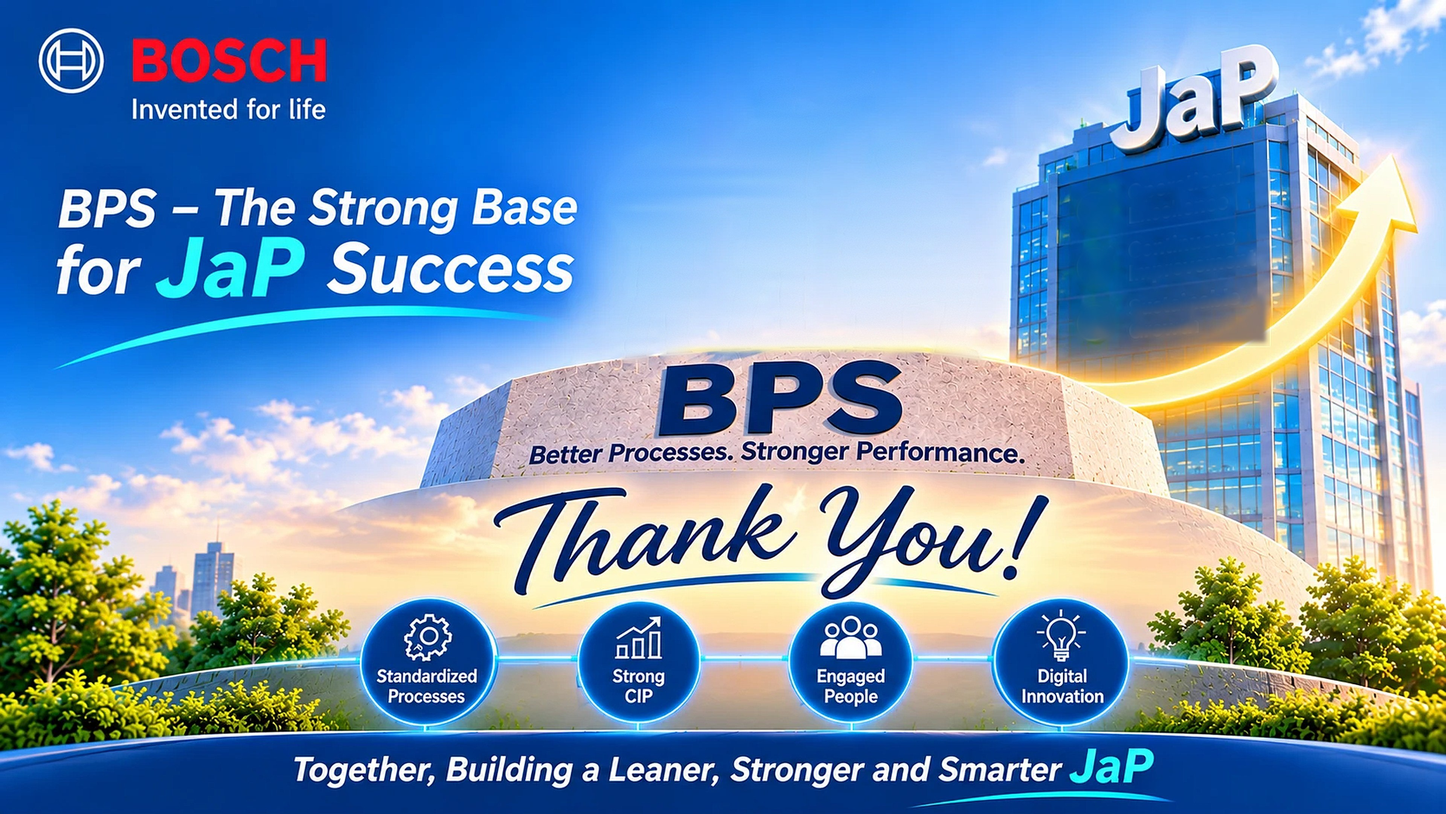
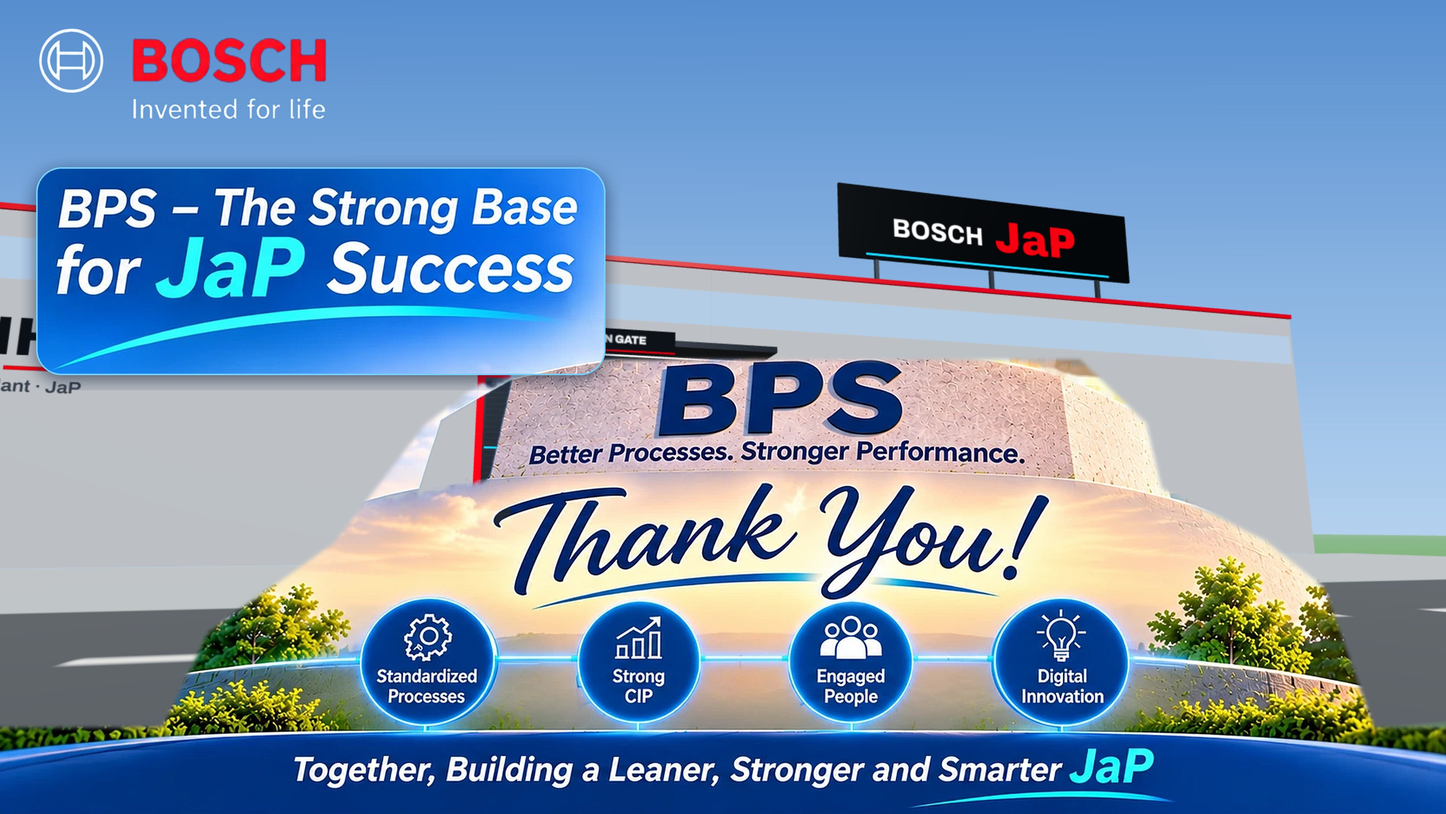
Activity navigation for the ‹ › buttons; flashback flows straight into the HD screen; Next skips the manual count; 2027 ends after Challenges & Support; Lead.Work.Win removed; thank-you background from the 3D plant with a BOSCH JaP rooftop sign
Claude-Session: https://claude.ai/code/session_01SMNtWjoyGC9g32mxm4KRHc

diff --git a/director.js b/director.js
@@ -54,9 +54,16 @@ export const CHAPTERS = [
   { id: 'factcheck', title: 'BPS Fact Check', sub: 'The JaP Newsroom', loc: 'studio', dur: 900, stepped: true },
   { id: 'future', title: 'How 2027 looks like', sub: 'Back through the gate, into the plant of 2027', loc: 'gate', dur: 40, stepped: true },
   { id: 'plant', title: 'Picture of Future', sub: 'A walk through the modern plant', loc: 'floor', dur: 36 },
-  { id: 'closing', title: 'Lead. Work. Win.', sub: 'Creating value. Together.', loc: 'close', dur: 18 },
   { id: 'thanks', title: 'Thank You', sub: '', loc: 'close', dur: 14, stepped: true },
 ];
+// the activities the ‹ › buttons step through: chapter + mark
+export const ACTS = [
+  ['flashback', 'flashback'], ['house', 'house26'], ['roadmap', 'roadmap26'], ['glimpses', 'glimpses'],
+  ['glimpses', 'vsp'], ['glimpses', 'dlpc'], ['glimpses', 'space'], ['glimpses', 'dlr'], ['glimpses', 'dsm'], ['digitalsm', 'dsmex'],
+  ['glimpses2', 'twin'], ['glimpses2', 'vision'], ['glimpses2', 'award'], ['factcheck', 'factcheck'],
+  ['future', 'future'], ['future', 'goal'], ['future', 'kpr'], ['future', 'kpi'], ['future', 'hunt'], ['future', 'strategy'],
+  ['future', 'roadmap27'], ['future', 'challenges'], ['plant', 'pof'], ['thanks', 'thanks'],
+].map(([ch, m]) => ({ ch, m }));
 
 // Operators at work [x, z, yaw]: NHA assembly line (4), VE pump line (3), NHA component line, VE press,
 // calibration cell, NHA machining (front and back), VE end of line test
@@ -206,23 +213,45 @@ export class Director {
     if (this.index > 0 && at > 1) { this.go(this.index, { toStep: at - 1 }); return; }
     if (this.index > 1) this.go(this.index - 1, { toStep: Infinity }); else if (this.index === 1) this.go(0);
   }
+  // ---------- activities (the ‹ › buttons): each script calls mark(id) where an activity starts ----------
+  mark(id) {
+    this.curMark = id; this.markAt = this.stepNo || 0; this.markT = performance.now();
+    if (this.catchUp && this.targetMark === id) this.endCatchUp();
+    this.app.ui.setActivity?.(id);
+  }
+  actIndex() { return ACTS.findIndex(x => x.m === this.curMark); }
+  goAct(k) {
+    if (k < 0) { this.go(0); return; }
+    const A = ACTS[Math.min(k, ACTS.length - 1)], ci = CHAPTERS.findIndex(c => c.id === A.ch); if (ci < 0) return;
+    const first = ACTS.find(x => x.ch === A.ch) === A;
+    if (first) this.go(ci); else this.go(ci, { toMark: A.m });
+  }
+  nextAct() { if (this.catchUp) return; const k = this.actIndex(); this.goAct(k < 0 ? ACTS.findIndex(x => CHAPTERS.findIndex(c => c.id === x.ch) > this.index) : k + 1); }
+  prevAct() {
+    if (this.catchUp) return; const k = this.actIndex();
+    if (k < 0) { this.prev(); return; }
+    // inside the activity → back to its start; already at its start → the activity before
+    const atStart = !this.scriptDone && (this.stepNo || 0) <= this.markAt + 1 && (!!this.stepRes || performance.now() - (this.markT || 0) < 3000);
+    this.goAct(atStart ? k - 1 : k);
+  }
   endCatchUp() {
     if (!this.catchUp) return;
-    this.catchUp = false; this.targetStep = 0; this.app.timeScale = 1; this.app.ui.fade(0, 0.6);
+    this.catchUp = false; this.targetStep = 0; this.targetMark = null; this.app.timeScale = 1; this.app.ui.fade(0, 0.6);
   }
-  async go(i, { skipTitle = false, toStep = 0 } = {}) {
+  async go(i, { skipTitle = false, toStep = 0, toMark = null, noFade = false } = {}) {
     i = clamp(i, 0, CHAPTERS.length - 1);
     const app = this.app, ui = app.ui, ch = CHAPTERS[i];
     const gt = ++this.goToken;
     this.makeCtx(); // cancels running script
-    this.stepRes = null; app.timeScale = 1; ui.stepHint(false);
+    this.stepRes = null; this.onSkip = null; app.timeScale = 1; ui.stepHint(false);
     app.rig.stop(); this.userCam = false; ui.showResetView(false); ui.clearCaptions(); ui.setPins([]); ui.closePanel(true); ui.showSkip(false); ui.closeRoadmap();
-    if (this.index >= 0) { ui.fade(1, 0.45); await new Promise(r => setTimeout(r, 470)); if (gt !== this.goToken) return; }
+    if (this.index >= 0 && !noFade) { ui.fade(1, 0.45); await new Promise(r => setTimeout(r, 470)); if (gt !== this.goToken) return; }
     this.index = i; this.chapterTime = 0; this.scriptDone = false; this.stepNo = 0;
-    this.targetStep = toStep; this.catchUp = toStep > 0; if (this.catchUp) skipTitle = true;
+    this.targetStep = toStep; this.targetMark = toMark; this.catchUp = toStep > 0 || !!toMark; if (this.catchUp) skipTitle = true;
+    this.curMark = null; this.markAt = 0;
     ui.setChapter(i);
     this.stage(ch.id);
-    if (this.catchUp) app.timeScale = 20; else ui.fade(0, 0.8);
+    if (this.catchUp) app.timeScale = 20; else ui.fade(0, noFade ? 0.01 : 0.8);
     // the gate chapter has no title card: '2026 Flashback' is written on the doors
     if (!['opening', 'flashback', 'house', 'roadmap', 'future', 'glimpses', 'glimpses2', 'thanks', 'factcheck'].includes(ch.id) && !skipTitle) ui.titleCard(i, ch.title, ch.sub);
     const ctx = this.makeCtx();
@@ -243,7 +272,7 @@ export class Director {
   waitStep(ctx, autoAfter = null) {
     this.stepNo = (this.stepNo || 0) + 1;
     // replaying after Back: run through the earlier steps without stopping
-    if (this.catchUp && this.stepNo < this.targetStep) return new Promise(r => setTimeout(r, 90));
+    if (this.catchUp && (this.targetMark || this.stepNo < this.targetStep)) return new Promise(r => setTimeout(r, 90));
     this.endCatchUp();
     this.app.timeScale = 1;
     const auto = null; void autoAfter; // nothing moves on by itself: every step waits for Next
@@ -258,6 +287,7 @@ export class Director {
     const ch = CHAPTERS[this.index]; if (!ch || this.scriptDone || this.catchUp) return;
     if (ch.stepped) {
       if (this.stepRes) { this.stepRes(); return; }
+      if (this.onSkip) { this.onSkip(); return; }
       this.app.timeScale = 5; // fast-forward the current animation to the next step
       return;
     }
@@ -361,6 +391,7 @@ export class Director {
   async opening(ctx) { await ctx.wait(0.1); }
 
   async flashback(ctx) {
+    this.mark('flashback');
     const { ph, bps, prod, qual } = this.cast, a = this.app, gate = a.factory.gate, d = a.data;
     const team = this.all(), sign = a.factory.hotspots.gate;
     ph.place(0, 40.5, PI);
@@ -399,12 +430,13 @@ export class Director {
     ph.faceTo(W); ph.lookAt(W); bps.lookAt(W); team.forEach(m => m.lookAt(W));
     ph.gesture('point', 2.6, { target: W });
     ctx.cap('On the screen: 2026 Flashback.');
-    ctx.cam(SHOT.in_both, 3);
-    await ctx.wait(3.2);
+    await ctx.wait(1.2);
+    if (!this.catchUp) { this.go(this.index + 1, { noFade: true }); await new Promise(() => {}); } // straight into the screen, full display
   }
 
   async house(ctx) {
     // the screen opens in full display with '2026 Flashback'; each Next builds the House of BPS GO!+
+    this.mark('house26');
     const ui = this.app.ui, wall = this.app.entrance.wall;
     ctx.cut(SHOT.k_wall);
     wall.setMode('flash'); wall.set26(0, true);
@@ -415,6 +447,7 @@ export class Director {
   }
 
   async roadmap(ctx) {
+    this.mark('roadmap26');
     // straight from the House of BPS GO!+ to the roadmap in full screen (click to zoom) → back to the scene
     const ui = this.app.ui, wall = this.app.entrance.wall;
     ctx.cut(SHOT.k_wall);
@@ -500,6 +533,7 @@ export class Director {
     const a = this.app, ui = a.ui, c = this.cast, T = (a.data.targets2027 || {}).boards || [], boards = a.factory.t27Boards || [];
     for (let i = 0; i < T.length; i++) {
       const b = boards[i]; if (!b) continue;
+      this.mark(T[i].id === 'kpr' ? 'kpr' : T[i].id === 'kpi' ? 'kpi' : 'hunt');
       ui.t27Board('close');
       ctx.cap(`Target 2027 · ${T[i].title}`, { hold: 400 });
       await this.walkToBoard(ctx, b);
@@ -530,6 +564,7 @@ export class Director {
     const have = JSON.parse(document.getElementById('glimpse-images')?.textContent || '{}');
     if (part === 1) {
       // the cover on the big screen
+      this.mark('glimpses');
       ctx.cap('Glimpses 2026: a Gemba walk through the year.', { hold: 600 });
       await this.waitStep(ctx);
     }
@@ -538,6 +573,7 @@ export class Director {
       const M = G.months[m]; if ((M.part || 1) !== part) continue;
       const b = boards[m]; if (!b) continue;
       if (!M.images.some(im => have[im.src])) continue; // no pictures for this story yet
+      if (M.mark) this.mark(M.mark);
       // walk to the board
       ui.glimpses('close'); ui.glimpses('gemba', null);
       ctx.cap(`Gemba walk · ${M.month}`, { hold: 400 });
@@ -578,6 +614,7 @@ export class Director {
   }
 
   async digitalsm(ctx) {
+    this.mark('dsmex');
     const { tl, ph, bps, prod, qual } = this.cast, a = this.app, ui = a.ui, F = a.factory, S = F.sm, D = a.data.digitalSM;
     const team = [ph, bps, prod, qual], zA = -4.35, last = S.racks[S.racks.length - 1], sp = S.screenPos;
     const walkAll = (spots, speed = 1.7) => Promise.all(team.map((m, k) => new Promise(res => ctx.later(k * 0.15, () => m.walkTo([spots[k]], { speed, onArrive: () => res() })))));
@@ -589,18 +626,24 @@ export class Director {
     ctx.cam(SHOT.sm_watch, 1.6);
     ctx.cap('Before · manual stock count', { kind: 'marker' });
     ctx.cap(D.before.text);
-    await ctx.walk(tl, [[S.racks[0].x, zA]], { speed: 1.4, faceYaw: 0 });
+    // Next during the count jumps straight to the end of it (the 45-min scene)
+    let jump = false; this.onSkip = () => { jump = true; this.onSkip = null; };
+    await Promise.race([ctx.walk(tl, [[S.racks[0].x, zA]], { speed: 1.4, faceYaw: 0 }), ctx.until(() => jump)]);
     tl.holdClipboard(true); ui.smNote('open', 'before');
     for (let i = 0; i < S.racks.length; i++) {
       const r = S.racks[i];
-      if (i) await ctx.walk(tl, [[r.x, zA]], { speed: 1.0, faceYaw: 0 });
+      if (jump) { ui.smNote('row', i); continue; }
+      if (i) await Promise.race([ctx.walk(tl, [[r.x, zA]], { speed: 1.0, faceYaw: 0 }), ctx.until(() => jump)]);
+      if (jump) { ui.smNote('row', i); continue; }
       tl.faceYaw(0); tl.lookAt(r.center); tl.gesture('point', 1.1, { target: r.center });
       if (i === 3) ctx.cam(SHOT.sm_wide, 3);
       await ctx.wait(1.1);
       tl.gesture('write', 1.6); tl.lookAt(null);
       ui.smNote('row', i);
-      await ctx.wait(1.2);
+      await Promise.race([ctx.wait(1.2), ctx.until(() => jump)]);
     }
+    this.onSkip = null;
+    if (jump) { tl.place(last.x, zA, 0); tl.gestures.length = 0; } // straight to the end of the round
     // tired after the round
     tl.holdClipboard(false); tl.faceYaw(PI); tl.setMood('tired');
     ctx.cam({ pos: [last.x - 0.3, 1.75, zA - 2.6], target: [last.x, 1.5, zA], fov: 40 }, 2.2);
@@ -632,6 +675,7 @@ export class Director {
   }
 
   async factcheck(ctx) {
+    this.mark('factcheck');
     const ui = this.app.ui, F = this.app.data.factCheck, A = F.audit, an = this.cast.bps;
     const cam = V(1.1, 1.66, 25.4), panel = V(2.6, 1.55, 22.6);
     an.lookAt(cam);
@@ -652,6 +696,7 @@ export class Director {
   }
 
   async thanks(ctx) {
+    this.mark('thanks');
     const ui = this.app.ui;
     ui.thanks('show');
     await ctx.wait(1.0);
@@ -663,6 +708,7 @@ export class Director {
   }
 
   async future(ctx) {
+    this.mark('future');
     const { ph } = this.cast, a = this.app, gate = a.factory.gate, wall = a.entrance.wall, H = a.data.house2027;
     const team = this.all();
     // step 1: the screens go dark, a black card asks the question
@@ -697,7 +743,7 @@ export class Director {
     ctx.cap('On the screen: BPS GO!+ 2027.', { hold: 600 });
     await this.waitStep(ctx);
     // step: the 2027 target
-    wall.setT27(0, true); wall.setMode('target27'); wall.setT27(1); ph.gesture('present', 2.6);
+this.mark('goal');     wall.setT27(0, true); wall.setMode('target27'); wall.setT27(1); ph.gesture('present', 2.6);
     ctx.cap('Goal 2027, goal 1: a self-learning organisation at BPS Level 3.', { hold: 600 });
     await this.waitStep(ctx);
     // next: goal 2, the Mobility BPS Award
@@ -707,7 +753,7 @@ export class Director {
     // Target 2027: a Gemba walk to three boards; each Next fires one target onto the board
     await this.targetBoards(ctx);
     // step 4: how we do it: the house drops in, its pillars still empty
-    wall.setISA(0, true); wall.setTag(false, true); wall.setMode('house27'); wall.set27(false, 0, true); wall.set27(true, 0);
+this.mark('strategy');     wall.setISA(0, true); wall.setTag(false, true); wall.setMode('house27'); wall.set27(false, 0, true); wall.set27(true, 0);
     this.app.ui.toggleScreenView(true); // full display: the 4K screen pixel-sharp
     ph.gesture('present', 2.6);
     ctx.cap('How we do it: the House of BPS GO!+ 2027.', { hold: 600 });
@@ -734,24 +780,21 @@ export class Director {
     if (H.tagline) { wall.highlight(null, null); wall.setTag(true); ctx.cap(H.tagline.join('  ') + '.', { hold: 600 }); await this.waitStep(ctx); }
     this.app.ui.toggleScreenView(false);
     // BPS GO!+ Roadmap 2027 in full screen (click to zoom)
+this.mark('roadmap27');
     { const ui = this.app.ui; ui.roadmap27(true); ctx.cap('BPS GO!+ Roadmap 2027: every element of the house, quarter by quarter.', { hold: 600 }); await this.waitStep(ctx); ui.roadmap27(false);
       // Challenges & Support Required: each Next brings one in
       const C = this.app.data.challenges2027;
       if (C) {
-        ui.challenges('open'); await this.waitStep(ctx);
+this.mark('challenges');         ui.challenges('open'); await this.waitStep(ctx);
         for (let k = 0; k < C.challenges.length; k++) { ui.challenges('ch', k); ctx.cap('Challenge: ' + C.challenges[k].text + '.', { hold: 600 }); await this.waitStep(ctx); }
         for (let k = 0; k < C.support.length; k++) { ui.challenges('sup', k); ctx.cap('Support required: ' + C.support[k].text + '.', { hold: 600 }); await this.waitStep(ctx); }
-        ui.challenges('close');
       } }
-    // back to the plant for the applause
-    wall.highlight(null, null); ph.lookAt(null); ph.faceYaw(PI * 0.6); team.forEach(m => m.lookAt(ph));
-    ph.gesture('armsOpen', 2.6);
-    team.forEach((m, i) => ctx.later(0.6 + i * 0.15, () => m.gesture('clap', 2.4)));
-    ctx.cap(H.statement + '.');
-    await ctx.wait(3.4);
+    // straight on to the Picture of Future (no return to the house)
+    if (!this.catchUp) { this.next(); await new Promise(() => {}); }
   }
 
   async plant(ctx) {
+    this.mark('pof');
     const { ph, bps, qual: dig } = this.cast, a = this.app, d = a.data.plant, H = a.factory.hotspots; // the Quality Manager presents the AI vision cell
     const Z = id => d.zones.find(z => z.id === id) || { name: id, items: [''] };
     ctx.cap(d.title, { kind: 'marker' });

diff --git a/factory.js b/factory.js
@@ -794,6 +794,21 @@ export function buildFactory(scene, renderer, data = {}) {
   };
   facadeSign(GATE_TEXT.left, 'Plant · JaP', -17);
   facadeSign(GATE_TEXT.right, 'Plant · JaP', 17);
+  // rooftop sign: BOSCH JaP, lit
+  {
+    const rs = new THREE.Group(); rs.position.set(17, HALL.h, fz - 1.2); out.add(rs);
+    const ct = new CanvasTex(2048, 640, (ctx, Wc, Hc) => {
+      ctx.clearRect(0, 0, Wc, Hc); ctx.textAlign = 'center';
+      ctx.fillStyle = '#E20015'; ctx.font = `900 300px ${FONT}`; ctx.fillText('JaP', Wc / 2 + 330, 430);
+      ctx.fillStyle = '#ffffff'; ctx.font = `800 170px ${FONT}`; ctx.fillText('BOSCH', Wc / 2 - 380, 400);
+      ctx.fillStyle = '#29d3ff'; ctx.fillRect(140, 520, Wc - 280, 16);
+    });
+    const face = new THREE.Mesh(new THREE.PlaneGeometry(14, 4.375), new THREE.MeshBasicMaterial({ map: ct.tex, transparent: true, toneMapped: false }));
+    face.position.set(0, 2.9, 0.06); rs.add(face);
+    box(14.4, 3.2, 0.12, mat(0x12161C, { rough: 0.4, metal: 0.6 }), 0, 2.9, -0.04, rs);
+    for (const x of [-5.5, 0, 5.5]) box(0.16, 1.3, 0.16, mat(0x5b6570, { rough: 0.4, metal: 0.7 }), x, 0.65, -0.1, rs);
+    shadows(rs, true, false);
+  }
   // gate frame and canopy
   const frameM = glow(C.red, 1.7);
   box(0.25, GATE.h + 0.25, 0.25, frameM, -GATE.w / 2 - 0.12, (GATE.h + 0.25) / 2, fz + 0.12, out);

diff --git a/ui.js b/ui.js
@@ -68,8 +68,8 @@ export class UI {
     $('#btnReset').onclick = () => this.app.director.resetView();
     $('#panelToggle').onclick = () => this.panelOpen ? this.closePanel() : this.openPanel();
     $('#panelTab').onclick = () => this.openPanel();
-    $('#btnPrev').onclick = () => this.app.director.prev();
-    $('#btnNext').onclick = () => { const d = this.app.director; if (this.roadmapOpen) { if (this.rmFocus) this.zoomTo(null); else { this.closeRoadmap(); if (d.stepRes && CHAPTERS[d.index]?.id === 'roadmap') d.skip(); } return; } if (this.paused) this.togglePause(false); d.scriptDone ? d.next() : d.skip(); };
+    $('#btnPrev').onclick = () => this.app.director.prevAct();
+    $('#btnNext').onclick = () => { if (this.roadmapOpen) this.closeRoadmap(); this.app.director.nextAct(); };
     $('#helpClose').onclick = () => this.toggleHelp(false);
     $('#enter').onclick = () => this.enter(false);
     $('#enterPresent').onclick = () => this.enter(true);

diff --git a/style.css b/style.css
@@ -1058,3 +1058,7 @@ body.roadmap-open #stepHint { top: calc(var(--top-h) + 14px); bottom: auto; righ
 @property --lit { syntax: '<number>'; inherits: true; initial-value: 0; }
 .cs-goal::after { animation: csRing 2.4s ease-out infinite; }
 @keyframes csRing { from { transform: scale(.9); opacity: .8; } to { transform: scale(1.35); opacity: 0; } }
+/* the ‹ › buttons stay usable over every full-screen view */
+#rail { z-index: 35; }
+body.roadmap-open #rail .arrow { visibility: visible; }
+body.factcheck #rail .arrow { visibility: visible; }
